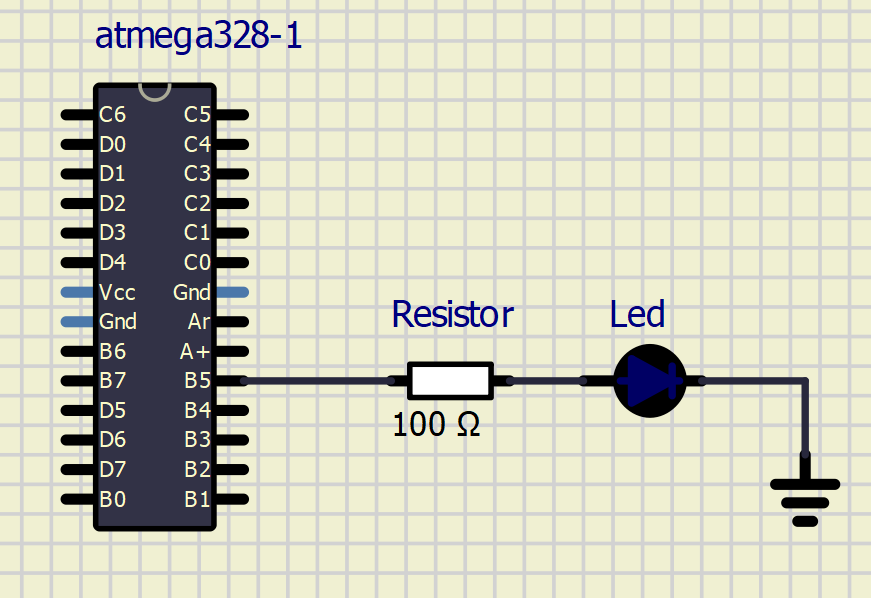
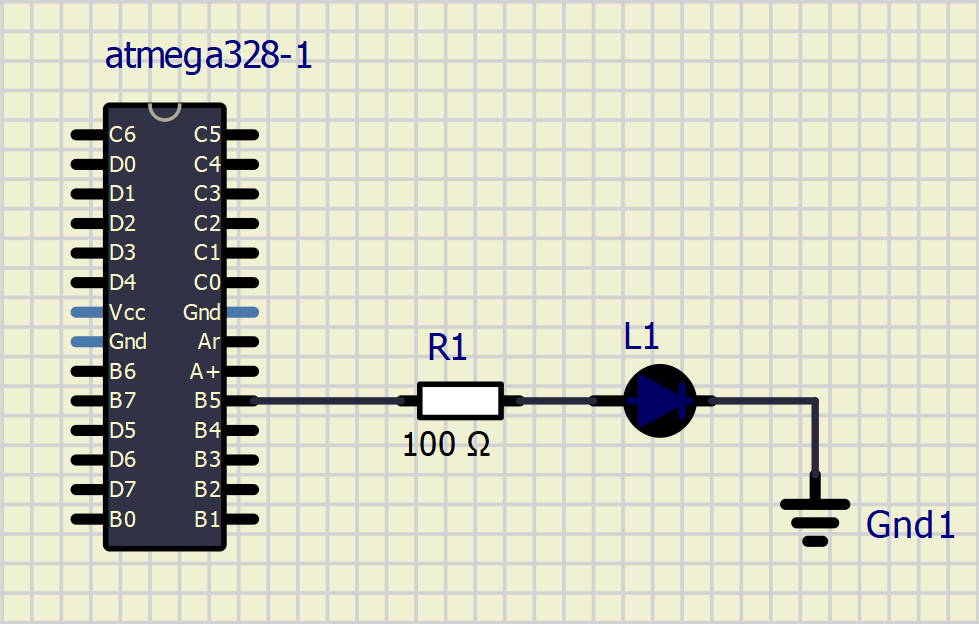
fixed scheme

diff --git a/Labs/01-tools/README.md b/Labs/01-tools/README.md
@@ -22,7 +22,7 @@ Link to your `Digital-electronics-2` GitHub repository:
 | 0 | 0 | 0 | 0 | 0 | 1 |
 | 0 | 1 | 1 | 0 | 1 | 1 |
 | 1 | 0 | 1 | 0 | 1 | 0 |
-| 1 | 1 | 1 | 0 | 0 | 0 |
+| 1 | 1 | 1 | 1 | 0 | 0 |
 
 
 ### Morse code
@@ -71,4 +71,4 @@ int main(void)
 
 2. Scheme of Morse code application, i.e. connection of AVR device, LED, resistor, and supply voltage. The image can be drawn on a computer or by hand. Always name all components and their values!
 
-   ![schema](schema.png)
+   ![schema](schema2.png)
